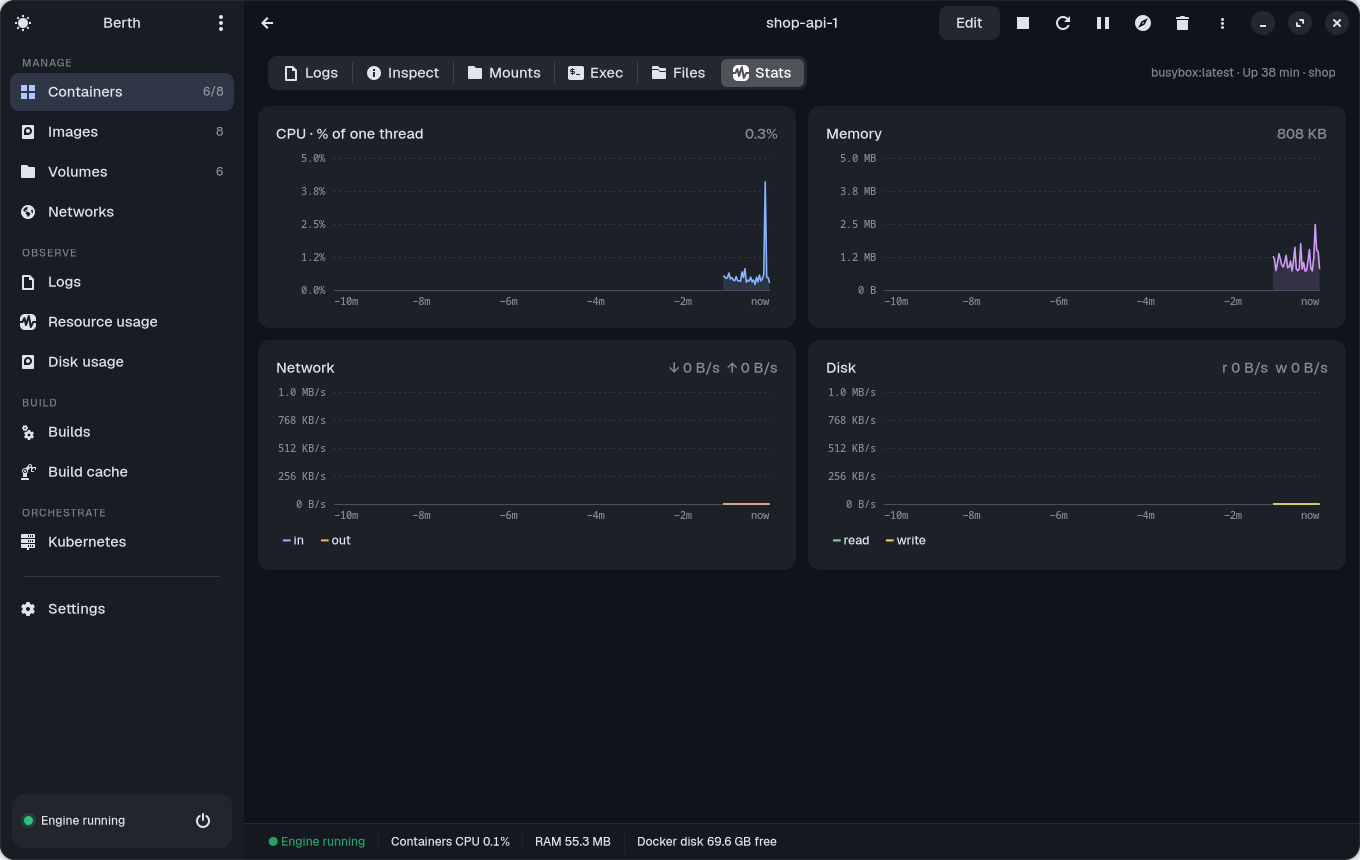
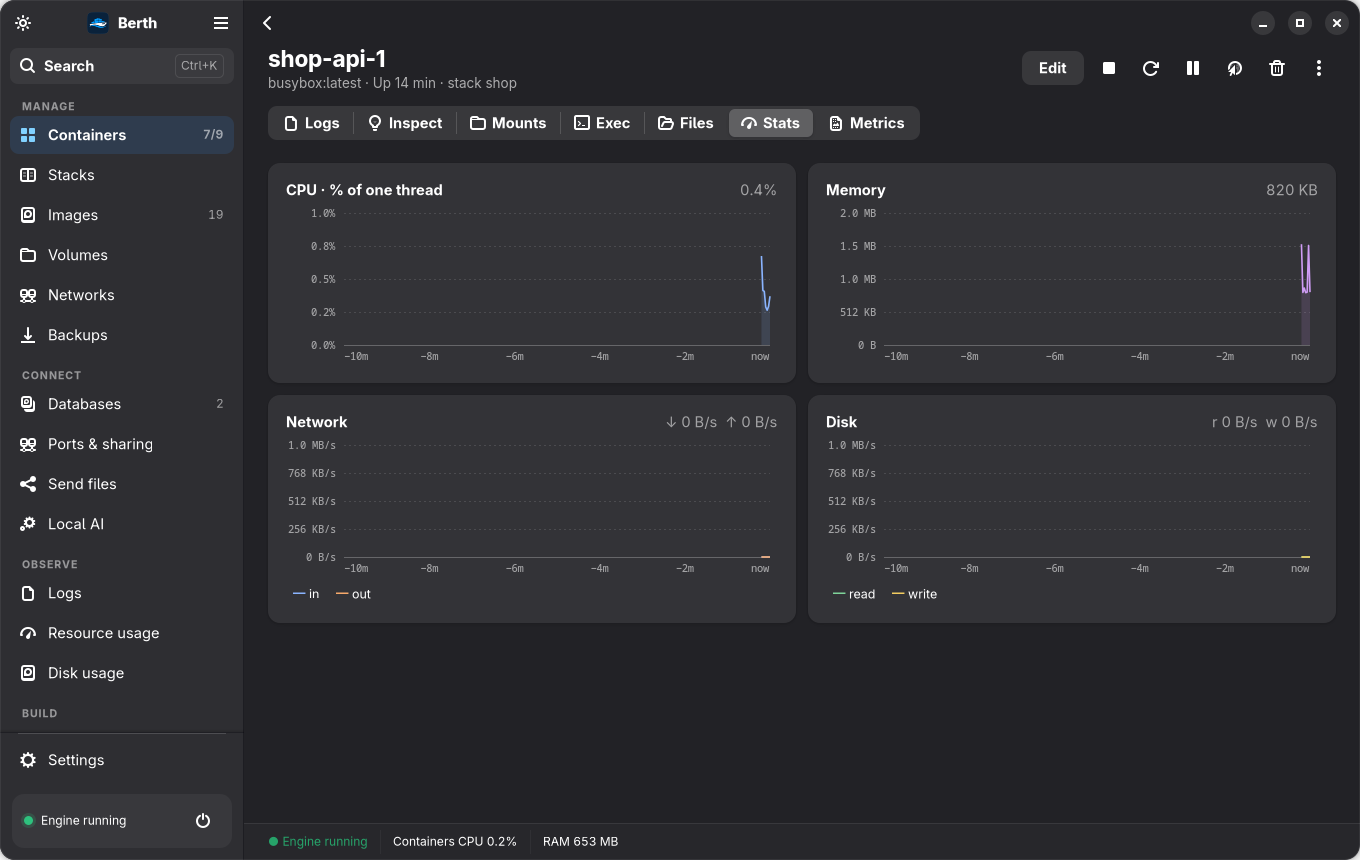
README and screenshots for the new features; Docker Hub tags without rate-limit cost
- README: features table rows and bullets for the new pages, roadmap ticked
- Screenshots: split view, graph, network map, registries, local AI (new);
  images, stacks, settings, container stats and files (refreshed), from a neutral demo
- Registries: Docker Hub tag details from Hub's API instead of per-tag manifests
- Local AI: idle stop starts the clock when there is no record of last use

diff --git a/berth/registry.py b/berth/registry.py
@@ -194,11 +194,48 @@ class Client:
         return [r for r in repos if r.startswith(namespace)] if namespace else repos
 
     def tags(self, repo):
+        if self.hub:
+            return self._hub_tags(repo)
         _h, d = self.req("GET", f"/v2/{repo}/tags/list?n=1000", scope=f"repository:{repo}:pull")
         return sorted(d.get("tags") or [])
 
+    def _hub_tags(self, repo):
+        """Docker Hub: tags with digest, size, date and platforms from Hub's API — one request per 100 tags, and it
+        doesn't count against the pull rate limit (reading each manifest from the registry would)."""
+        ns, _, name = repo.partition("/")
+        url = (f"https://hub.docker.com/v2/namespaces/{urllib.parse.quote(ns)}/repositories/"
+               f"{urllib.parse.quote(name)}/tags?page_size=100")
+        self.hub_info = getattr(self, "hub_info", {})
+        info, order = {}, []
+        while url and len(order) < 500:
+            r = urllib.request.Request(url, headers=dict(UA))
+            tok = self._hub_jwt()
+            if tok:
+                r.add_header("Authorization", "Bearer " + tok)
+            try:
+                with urllib.request.urlopen(r, timeout=20) as f:
+                    d = json.load(f)
+            except urllib.error.HTTPError as e:
+                if order and e.code in (401, 403):            # only the first page without signing in
+                    break
+                raise RegistryError(f"Docker Hub: {e.code} {e.reason}" +
+                                    (" — no such repository" if e.code == 404 else "")) from None
+            for t in d.get("results") or []:
+                plats = [f"{i.get('os')}/{i.get('architecture')}" + (f"/{i['variant']}" if i.get("variant") else "")
+                         for i in t.get("images") or [] if i.get("os") not in (None, "unknown")]
+                info[t["name"]] = {"digest": t.get("digest") or "", "size": t.get("full_size") or 0,
+                                   "platforms": plats, "config": "",
+                                   "created": (t.get("last_updated") or "")[:19].replace("T", " ")}
+                order.append(t["name"])
+            url = d.get("next")
+        self.hub_info[repo] = info
+        return order                                         # newest first, as Hub lists them
+
     def info(self, repo, tag):
         """{digest, platforms, size, created} of one tag."""
+        cached = getattr(self, "hub_info", {}).get(repo, {}).get(tag)
+        if cached is not None:
+            return cached
         scope = f"repository:{repo}:pull"
         h, m = self.req("GET", f"/v2/{repo}/manifests/{tag}", scope=scope, accept=ACCEPT)
         digest = h.get("Docker-Content-Digest", "")

diff --git a/berth/app.py b/berth/app.py
@@ -473,7 +473,9 @@ class Window(Adw.ApplicationWindow):
                s["alert_mem"], s["alert_disk"], done=shown, error=lambda e: self._watch_busy.discard("alerts"))
         if s["ai_idle_stop"] and "ai" not in self._watch_busy:      # Local AI: stop Ollama after a while unused
             from . import ai
-            if now - ai.last_use() > s["ai_idle_stop"] * 60 and any(
+            if not ai.last_use():                     # no record yet (first run, or started outside): start the clock
+                ai.touch()
+            elif now - ai.last_use() > s["ai_idle_stop"] * 60 and any(
                     f"/{ai.NAME}" in (c.get("Names") or []) and c.get("State") == "running" for c in st.containers):
                 self._watch_busy.add("ai")
                 bg(ai.stop, st.engine, done=lambda _r: (self._watch_busy.discard("ai"),

diff --git a/README.md b/README.md
@@ -113,7 +113,9 @@ arrives; there are no animations or timers while idle. A *Software rendering* sw
 | <img src="docs/screenshots/images-dark.png" alt="Images"> **Images** — in use / unused / dangling, Docker Hub search & pull with progress, run with ports/env/volumes, vulnerability scan, tag, push, save / load. | <img src="docs/screenshots/settings-light.png" alt="Settings"> **Settings** — light / dark / system theme, **accessibility** (text size 85–150 %, compact / comfortable / spacious density, stronger borders and contrast, larger icons, reduce motion), resource saver, engine switcher, registry sign-in, `daemon.json` editor, optional tray icon. |
 | <img src="docs/screenshots/databases-dark.png" alt="Database explorer"> **Databases** — browse and query **PostgreSQL, MySQL / MariaDB, Redis / Valkey, MongoDB, Vespa, OpenSearch / Elasticsearch, Typesense, Meilisearch** and SQLite files in your containers: tables / keys / collections / indices, paged data, structure and indexes, a query console with history, **edit rows, keys and documents** (click a row to open it in full, double-click a cell), sort and filter on the server, export or import a whole table as CSV / JSON. No drivers and no extra ports (Berth uses the client inside the image), **read-only unless you switch on “Allow changes”**. | <img src="docs/screenshots/sharing-light.png" alt="Ports and sharing"> **Ports & sharing** — give a container a friendly address like `https://shop.localhost` (one small local proxy, on 127.0.0.1 only), **share a port publicly** with a Cloudflare Tunnel link (no account needed; stops when Berth quits unless you keep it), and see every published port, with a warning on the ones open to your whole network. |
 | <img src="docs/screenshots/stacks-light.png" alt="Stacks"> **Stacks** — every Compose project, also ones taken down: up, down, restart, pull & recreate, edit, logs, and a **Compose check** that catches port clashes, unset variables and missing files before anything starts. | <img src="docs/screenshots/backups-dark.png" alt="Backups"> **Backups** — databases (pg_dump, mysqldump, mongodump, Redis) and volumes, right now or on a schedule; keep the newest few; restore with one click. |
-| <img src="docs/screenshots/send-dark.png" alt="Send files"> **Send files** — share files or a folder with a phone: a Wi-Fi link and QR code, PIN, expiry, download limit; receive files from a phone too. | |
+| <img src="docs/screenshots/send-dark.png" alt="Send files"> **Send files** — share files or a folder with a phone: a Wi-Fi link and QR code, PIN, expiry, download limit; receive files from a phone too. | <img src="docs/screenshots/split-view-dark.png" alt="Split view"> **Split view and windows** — two containers side by side with all their tabs, or a container in its own window; each streams only while visible. |
+| <img src="docs/screenshots/graph-light.png" alt="Dependency graph"> **Dependency graph** — a stack's services with state, `depends_on` arrows and their conditions, networks and volumes; click a service to open it. | <img src="docs/screenshots/network-map-dark.png" alt="Network map"> **Network map** — networks with their containers, IPs, published ports and live traffic, plus a reachability check: *can `web` reach `api` on port 8000?* |
+| <img src="docs/screenshots/registries-dark.png" alt="Registries"> **Registries** — browse Docker Hub and any Registry v2 registry: tags with digest, size, platforms, whether your copy matches; pull, copy to another registry, delete tags. | <img src="docs/screenshots/local-ai-dark.png" alt="Local AI"> **Local AI** — open models with Ollama on your own computer: pick one by size and memory, download, chat, and use its OpenAI-compatible address in other apps. Plus an **MCP server** (`berth --mcp`) so AI assistants can read your containers and logs. |
 
 **Everything else**
 
@@ -123,6 +125,14 @@ arrives; there are no animations or timers while idle. A *Software rendering* sw
 - **Notifications** when a container crashes, runs out of memory or turns unhealthy, or a backup fails.
 - **Images**: build from a folder with a Dockerfile, see which tags have a newer version, update and recreate their containers in one click.
 - **Remote engines over SSH** (`ssh://user@host`, your SSH keys) next to local sockets and `tcp://`.
+- **Safe updates**: scan the new image version with Trivy first and keep the current one if the new one brings critical or high vulnerabilities; scheduled scans and a Security column on Images.
+- **Alerts**: a notification when a container stays above a CPU limit, nears its memory limit, or Docker's disk runs low.
+- **Templates and Dockerize**: 13 one-click stacks (Postgres, MariaDB, Redis, MongoDB, S3 storage, RabbitMQ, Redpanda, OpenSearch, Vespa, Meilisearch, Ollama, Nginx, Traefik), and a Dockerfile + compose.yaml for a Node, Python, Go, Java or static project.
+- **Environment and secrets** per stack: every variable and where it comes from, secrets masked, differences between services, `.env` editing that recreates only what changed.
+- **Structured logs**: JSON and `key=value` fields you can click to filter, saved filters, pause, export to text / JSON / CSV, stack traces grouped.
+- **App metrics**: a Metrics tab charts a container's own Prometheus `/metrics` endpoint.
+- **Image layers**: where an image's size goes, layer by layer.
+- **Databases outside Docker** from a connection string, query tabs, saved queries and schema editing (tables, columns, indexes).
 
 - **Containers** grouped by Compose project; start / stop / restart / pause / delete one container or a whole stack; ports open in your browser.
 - **Container details**: Logs · Inspect (environment values hidden until you ask) · Mounts · **Exec** (built-in terminal with VTE) · Files · Stats.
@@ -264,11 +274,12 @@ notes: [docs/ARCHITECTURE.md](docs/ARCHITECTURE.md).
 - [x] Native Windows named-pipe support (no TCP setting needed) — 1.3
 - [x] SSH remote engines (`ssh://user@host`) — 1.3
 - [x] Database and volume backups on a schedule, with restore — 1.3
-- [ ] SQL editor: several tabs, saved queries, cancel a running query
-- [ ] Schema editing (create tables, columns, indexes) and following foreign keys
-- [ ] Image layer explorer (files per layer, wasted space)
-- [ ] Compose graph view (services, networks, volumes, depends_on)
-- [ ] Resource alerts (notify when CPU / memory / disk crosses a threshold — crashes and failed backups notify already)
+- [x] SQL editor: several tabs, saved queries — 1.4 (cancelling a running query: still open)
+- [x] Schema editing (create tables, columns, indexes) — 1.4 (following foreign keys: still open)
+- [x] Image layer explorer (size per layer) — 1.4 (files per layer: still open)
+- [x] Compose graph view (services, networks, volumes, depends_on) — 1.4
+- [x] Resource alerts (CPU / memory / disk thresholds) — 1.4
+- [x] Registry browser, templates, Dockerize, network map, environment manager, app metrics, local AI + MCP — 1.4
 - [ ] More Kubernetes resources (ConfigMaps, Secrets, Ingress, Jobs)
 - [ ] Translations of the app UI (Chinese, Japanese, …)
 

diff --git a/CHANGELOG.md b/CHANGELOG.md
@@ -69,6 +69,11 @@ and the project uses [Semantic Versioning](https://semver.org/).
   details and list images. Starting, stopping and restarting needs a switch in Settings; "Copy config" gives the
   snippet for the assistant.
 - Berth removes the client containers of outside databases when it quits.
+- Registries: Docker Hub tags come from Hub's own API (one request per 100 tags) — reading each tag's manifest would
+  count against Docker Hub's pull rate limit.
+- Local AI: the idle stop no longer stops Ollama at once when Berth has no record of its last use.
+- README: new and refreshed screenshots (split view, dependency graph, network map, registries, local AI, images,
+  stacks, settings, container details) and the 1.4 features.
 
 ### Changed
 - Flatpak builds on the GNOME 51 runtime (was 48). A Flathub-ready manifest that builds a pinned release tag is in
